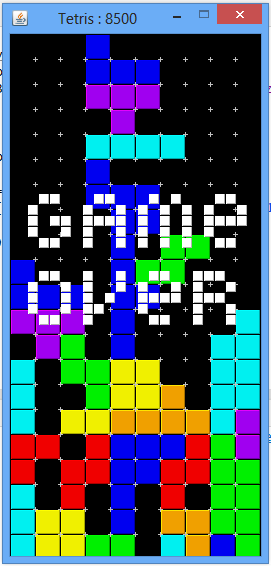
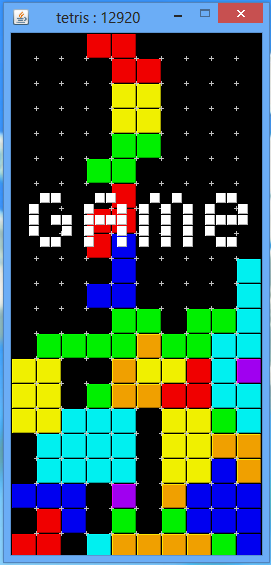
tetrisQ

diff --git a/TetrisQ.java b/TetrisQ.java
@@ -1,0 +1,307 @@
+import java.awt.BorderLayout;
+import java.awt.Color;
+import java.awt.Graphics;
+import java.awt.event.KeyAdapter;
+import java.awt.event.KeyEvent;
+import java.util.ArrayList;
+import java.util.Arrays;
+import java.util.Random;
+import javax.swing.JFrame;
+import javax.swing.JPanel;
+
+public class TetrisQ extends JFrame {
+	final String Title = "tetris";
+	final int BOX_SIZE = 25;// размер одного блока
+	final int ARC = 6;// радиус закругления блока
+	final int FORM_WIDTH = 10;// ширина игрового поля[width]
+	final int FORM_HEIGHT = 21;// высота игрового поля[height]
+	final int DX = 7;// new X
+	final int DY = 26;// new Y
+	final int RUN = 180;// стартовая локация
+	final int LEFT = 37;// коды клавиш...
+	final int UP = 38;
+	final int RIGHT = 39;
+	final int DOWN = 40;
+	final int SHOW_DEL = 400;// задержка анимации
+	final int[][][] dot = {
+    		{ { 0, 0, 0, 0 }, { 1, 1, 1, 1 }, { 0, 0, 0, 0 }, { 0, 0, 0, 0 }, { 4, 0x00f0f0 } }, // I
+			{ { 0, 0, 0, 0 }, { 0, 1, 1, 0 }, { 0, 1, 1, 0 }, { 0, 0, 0, 0 }, { 4, 0xf0f000 } }, // O
+			{ { 1, 0, 0, 0 }, { 1, 1, 1, 0 }, { 0, 0, 0, 0 }, { 0, 0, 0, 0 }, { 3, 0x0000f0 } }, // J
+			{ { 0, 0, 1, 0 }, { 1, 1, 1, 0 }, { 0, 0, 0, 0 }, { 0, 0, 0, 0 }, { 3, 0xf0a000 } }, // L
+			{ { 0, 1, 1, 0 }, { 1, 1, 0, 0 }, { 0, 0, 0, 0 }, { 0, 0, 0, 0 }, { 3, 0x00f000 } }, // S
+			{ { 1, 1, 1, 0 }, { 0, 1, 0, 0 }, { 0, 0, 0, 0 }, { 0, 0, 0, 0 }, { 3, 0xa000f0 } }, // T
+			{ { 1, 1, 0, 0 }, { 0, 1, 1, 0 }, { 0, 0, 0, 0 }, { 0, 0, 0, 0 }, { 3, 0xf00000 } }  // Z
+	};
+	final int[] score = { 110, 320, 730, 1550 };// очки за собранный слой
+	int gameScore = 0;
+	int[][] form = new int[FORM_HEIGHT + 1][FORM_WIDTH];// игровое поле form
+	JFrame frame;
+	Canvas canvas = new Canvas();
+	Random random = new Random();
+	Figure figure = new Figure();
+	boolean overGame = false;
+	final int[][] MSG = {
+    		{ 0, 1, 1, 0, 0, 0, 1, 1, 0, 0, 0, 1, 0, 1, 0, 0, 0, 1, 1, 0 },
+			{ 1, 0, 0, 0, 0, 1, 0, 0, 1, 0, 1, 0, 1, 0, 1, 0, 1, 0, 0, 1 },
+			{ 1, 0, 1, 1, 0, 1, 1, 1, 1, 0, 1, 0, 1, 0, 1, 0, 1, 1, 1, 1 },
+			{ 1, 0, 0, 1, 0, 1, 0, 0, 1, 0, 1, 0, 1, 0, 1, 0, 1, 0, 0, 0 },
+			{ 0, 1, 1, 0, 0, 1, 0, 0, 1, 0, 1, 0, 1, 0, 1, 0, 0, 1, 1, 0 } 
+			};                                   
+
+	public static void main(String[] args) {
+		new TetrisQ().init();
+	}
+
+	TetrisQ() {
+		setTitle(Title);
+		setDefaultCloseOperation(EXIT_ON_CLOSE);
+		setBounds(RUN, RUN, FORM_WIDTH * BOX_SIZE + DX, FORM_HEIGHT * BOX_SIZE + DY);
+		setResizable(false);// не изменять размер игрового поля
+		setLocationRelativeTo(null);// игра по центру экрана
+		canvas.setBackground(Color.black);// цвет фона
+		addKeyListener(new KeyAdapter() {
+			@Override
+			public void keyPressed(KeyEvent e) {
+				if (!overGame) {
+					if (e.getKeyCode() == LEFT)
+						figure.move(e.getKeyCode());
+					if (e.getKeyCode() == RIGHT)
+						figure.move(e.getKeyCode());
+					if (e.getKeyCode() == UP)
+						figure.rotate();
+					if (e.getKeyCode() == DOWN)
+						figure.drop();
+				}
+				canvas.repaint();
+			}
+		});
+		add(BorderLayout.CENTER, canvas);
+		setVisible(true);
+		Arrays.fill(form[FORM_HEIGHT], 1);// инициализация дна...создаём площадку дна
+	}
+
+	void init() {
+		while (!overGame) {// пока не overGame крутится цикл while
+			try {
+				Thread.sleep(SHOW_DEL); // задержка анимации...перед перерисовкой
+			} catch (InterruptedException e) {
+			}
+			canvas.repaint();// перерисовка
+			curentString();// проверка заполнения строк
+			if (figure.touchToWell()) {// коснулась ли фигура дна,или упавших фигур
+				figure.fixToWell();// фиксируем(изменяем цвет фигуры)после касания
+				figure = new Figure();// создаем новую фигуру
+				overGame = figure.crossToWell();// есть ли пространство для новой фигуры,не закончилась ли игра
+			} else {
+				figure.crossDown();// фигура продолжает падать
+			}
+		}
+	}
+
+	void curentString() {// проверка заполнения строк
+		int height = FORM_HEIGHT - 1;
+		int curentHeight = 0;
+		while (height > 0) {
+			int curent = 1;
+			for (int width = 0; width < FORM_WIDTH; width++)
+				curent *= Integer.signum(form[height][width]);
+			if (curent > 0) {
+				curentHeight++;
+				for (int h = height; h > 0; h--)
+					System.arraycopy(form[h - 1], 0, form[h], 0, FORM_WIDTH);
+			} else {
+				height--;
+			}
+		}
+		if (curentHeight > 0) {
+			gameScore += score[curentHeight - 1];
+			setTitle(Title + " : " + gameScore);
+		}
+	}
+
+	final class Figure {
+		private final int[][] well = new int[4][4];
+		private final ArrayList<Box> figure = new ArrayList<Box>();
+		private final int type, size, color;
+		private int y = 0, x = 3;// начало в левом верхнем углу
+
+		Figure() {
+			type = random.nextInt(dot.length);
+			size = dot[type][4][0];
+			color = dot[type][4][1];
+			if (size == 4)
+				y = -1;
+			for (int quar = 0; quar < size; quar++)
+				System.arraycopy(dot[type][quar], 0, well[quar], 0, dot[type][quar].length);
+			createWell();
+		}
+
+		void createWell() {// создать фигуру
+			for (int w = 0; w < size; w++)
+				for (int h = 0; h < size; h++)
+					if (well[h][w] == 1)
+						figure.add(new Box(w + this.x, h + this.y));
+		}
+
+		boolean touchToWell() {// коснулась ли фигура дна
+			for (Box box : figure)
+				if (form[box.getY() + 1][box.getX()] > 0)
+					return true;
+			return false;
+		}
+
+		boolean crossToWell() {// есть ли пространство для новой фигуры
+			for (Box box : figure)
+				if (form[box.getY()][box.getX()] > 0)
+					return true;
+			return false;
+		}
+
+		void fixToWell() {// изменение цвета фигуры при фиксации
+			for (Box box : figure)
+				form[box.getY()][box.getX()] = color;
+		}
+
+		boolean widthToWell(int col) {// проверка на косание фигурой стены LEFT,RIGHT...
+			for (Box box : figure) {
+				if (col == LEFT && (box.getX() == 0 || form[box.getY()][box.getX() - 1] > 0))
+					return true;
+				if (col == RIGHT && (box.getX() == FORM_WIDTH - 1 || form[box.getY()][box.getX() + 1] > 0))
+					return true;
+			}
+			return false;
+		}
+
+		void move(int col) {// передвижение фигуры в право или лево
+			if (!widthToWell(col)) {
+				int dx = col - 38;
+				for (Box box : figure)
+					box.setX(box.getX() + dx);
+				x += dx;
+			}
+		}
+
+		void crossDown() {// передвижение фигуры вниз
+			for (Box box : figure)
+				box.setY(box.getY() + 1);
+			y++;
+		}
+
+		void drop() {// падение фигуры вниз
+			while (!touchToWell()) {
+				crossDown();
+			}
+		}
+
+		boolean collidesAt() {// (коллизии вращения фигуры)проверка косания со стеной
+			for (int w = 0; w < size; w++)
+				for (int h = 0; h < size; h++)
+					if (well[h][w] == 1) {
+						if (h + this.y < 0)
+							return true;
+						if (w + this.x < 0 || w + this.x > FORM_WIDTH - 1)
+							return true;
+						if (form[h + this.y][w + this.x] > 0)
+							return true;
+					}
+			return false;
+		}
+
+		void rotateWell(int col) {// ротация образа фигуры
+			for (int w = 0; w < size / 2; w++)
+				for (int h = w; h < size - 1 - w; h++)
+					if (col == RIGHT) {// по часовой стрелке
+						int tmp = well[size - 1 - h][w];
+						well[size - 1 - h][w] = well[size - 1 - w][size - 1 - h];
+						well[size - 1 - w][size - 1 - h] = well[h][size - 1 - w];
+						well[h][size - 1 - w] = well[w][h];
+						well[w][h] = tmp;
+					} else {// против часовой стрелки
+						int tmp = well[w][h];
+						well[w][h] = well[h][size - 1 - w];
+						well[h][size - 1 - w] = well[size - 1 - w][size - 1 - h];
+						well[size - 1 - w][size - 1 - h] = well[size - 1 - h][w];
+						well[size - 1 - h][w] = tmp;
+					}
+		}
+
+		void rotate() {// вращение фигуры(ротация)
+			rotateWell(RIGHT);
+			if (!collidesAt()) {
+				figure.clear();
+				createWell();
+			} else {
+				rotateWell(LEFT);
+			}
+		}
+
+		void paint(Graphics g) {
+			for (Box box : figure)
+				box.paint(g, color);
+		}
+
+	}
+
+	final class Box {
+		private int x;
+		private int y;
+
+		public Box(int x, int y) {
+			super();
+			this.x = x;
+			this.y = y;
+		}
+
+		public int getX() {
+			return x;
+		}
+
+		public void setX(int x) {
+			this.x = x;
+		}
+
+		public int getY() {
+			return y;
+		}
+
+		public void setY(int y) {
+			this.y = y;
+		}
+
+		void paint(Graphics g, int color) {
+			g.setColor(new Color(color));
+			g.drawRoundRect(x * BOX_SIZE + 1, y * BOX_SIZE + 1, BOX_SIZE - 2, BOX_SIZE - 2, ARC, ARC);
+
+		}
+	}
+
+	class Canvas extends JPanel {
+		@Override
+		public void paint(Graphics g) {
+			super.paint(g);
+			for (int w = 0; w < FORM_WIDTH; w++)
+				for (int h = 0; h < FORM_HEIGHT; h++) {
+					if (w < FORM_WIDTH - 1 && h < FORM_HEIGHT - 1) {
+						g.setColor(Color.lightGray);
+						g.drawLine((w + 1) * BOX_SIZE - 2, (h + 1) * BOX_SIZE, (w + 1) * BOX_SIZE + 2,
+								(h + 1) * BOX_SIZE);
+						g.drawLine((w + 1) * BOX_SIZE, (h + 1) * BOX_SIZE - 2, (w + 1) * BOX_SIZE,
+								(h + 1) * BOX_SIZE + 2);
+					}
+					if (form[h][w] > 0) {
+						g.setColor(new Color(form[h][w]));
+						g.fill3DRect(w * BOX_SIZE + 1, h * BOX_SIZE + 1, BOX_SIZE - 1, BOX_SIZE - 1, true);
+					}
+				}
+			if (overGame) {
+				g.setColor(Color.white);
+				for (int h = 0; h < MSG.length; h++)
+					for (int w = 0; w < MSG[h].length; w++)
+						if (MSG[h][w] == 1)
+							g.fill3DRect(w * 11 + 18, h * 11 + 160, 10, 10, true);
+			} else {
+				figure.paint(g);
+			}
+		}
+	}
+}
